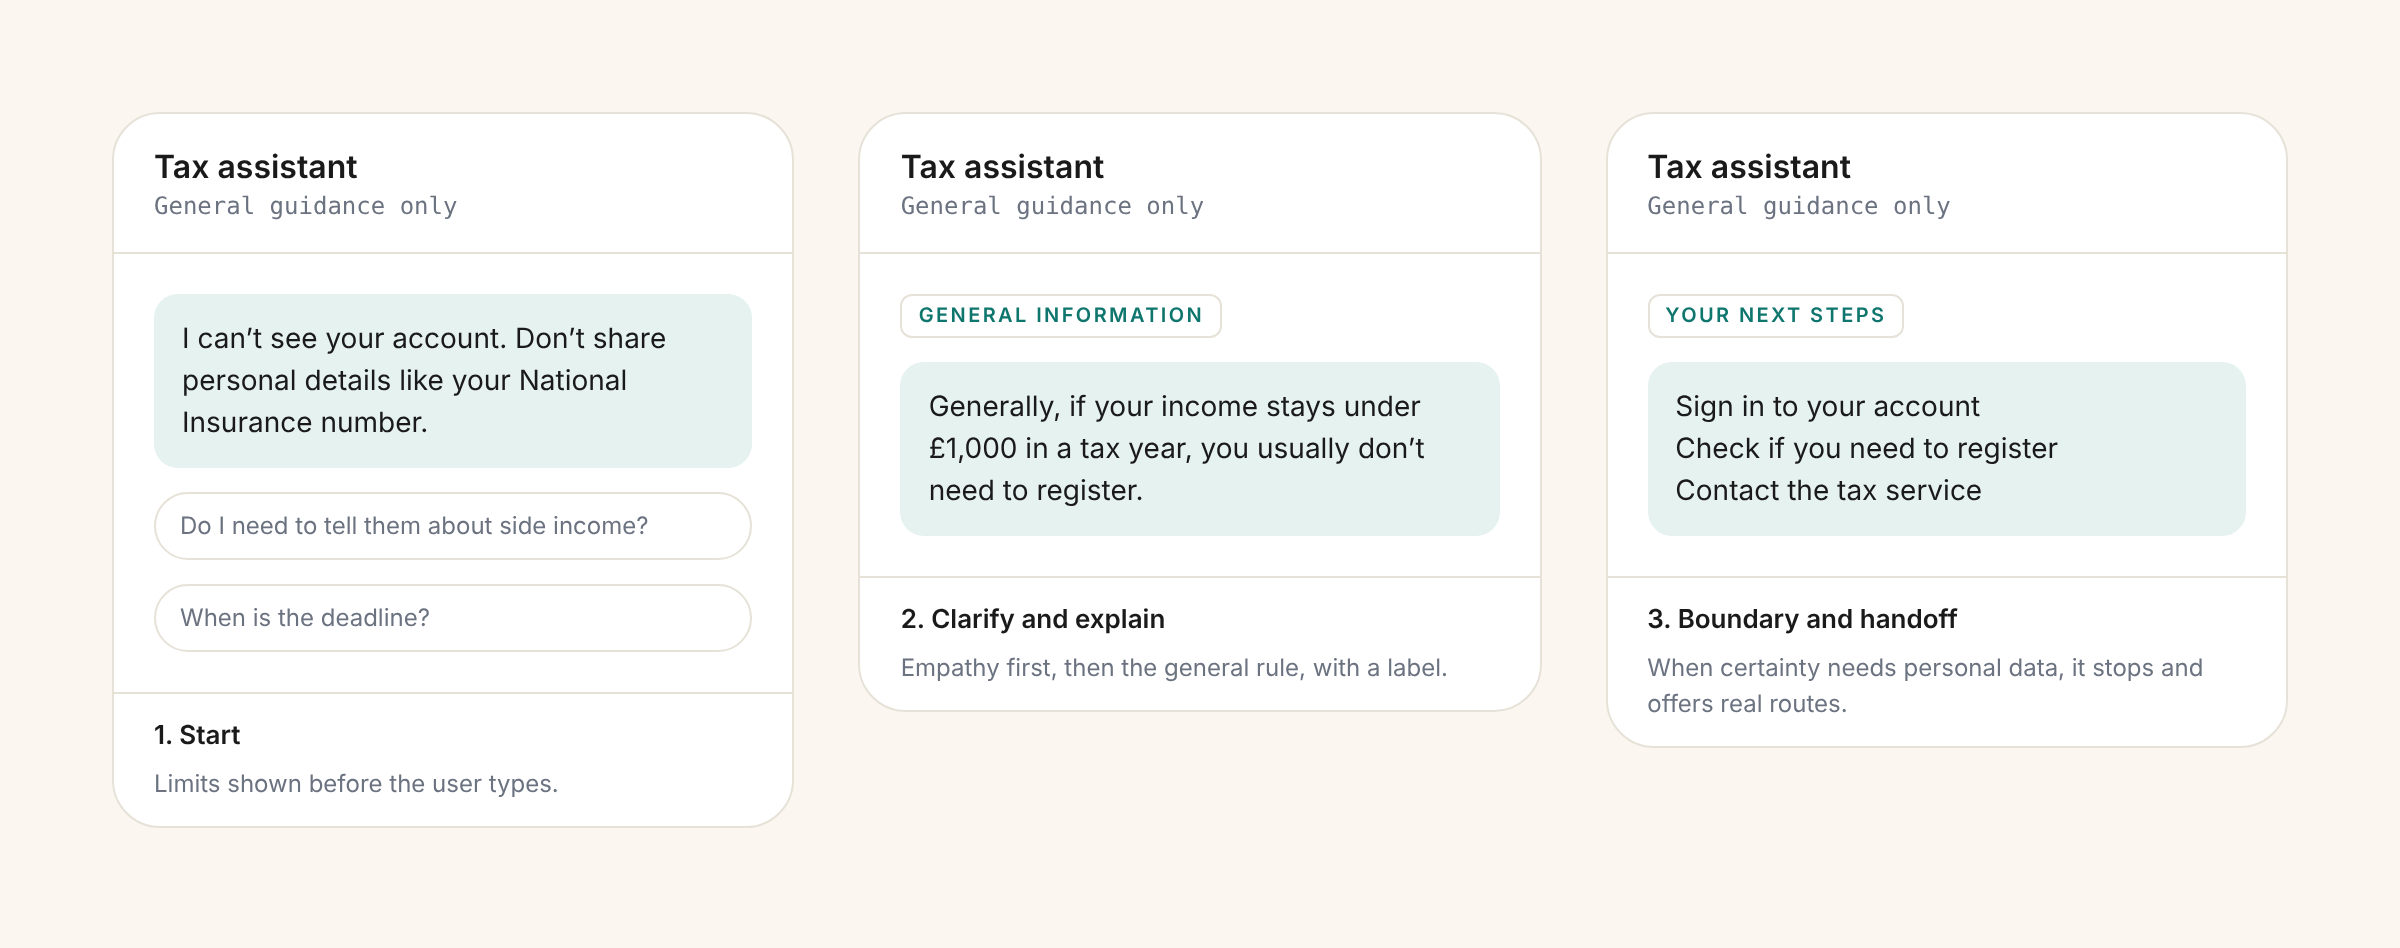
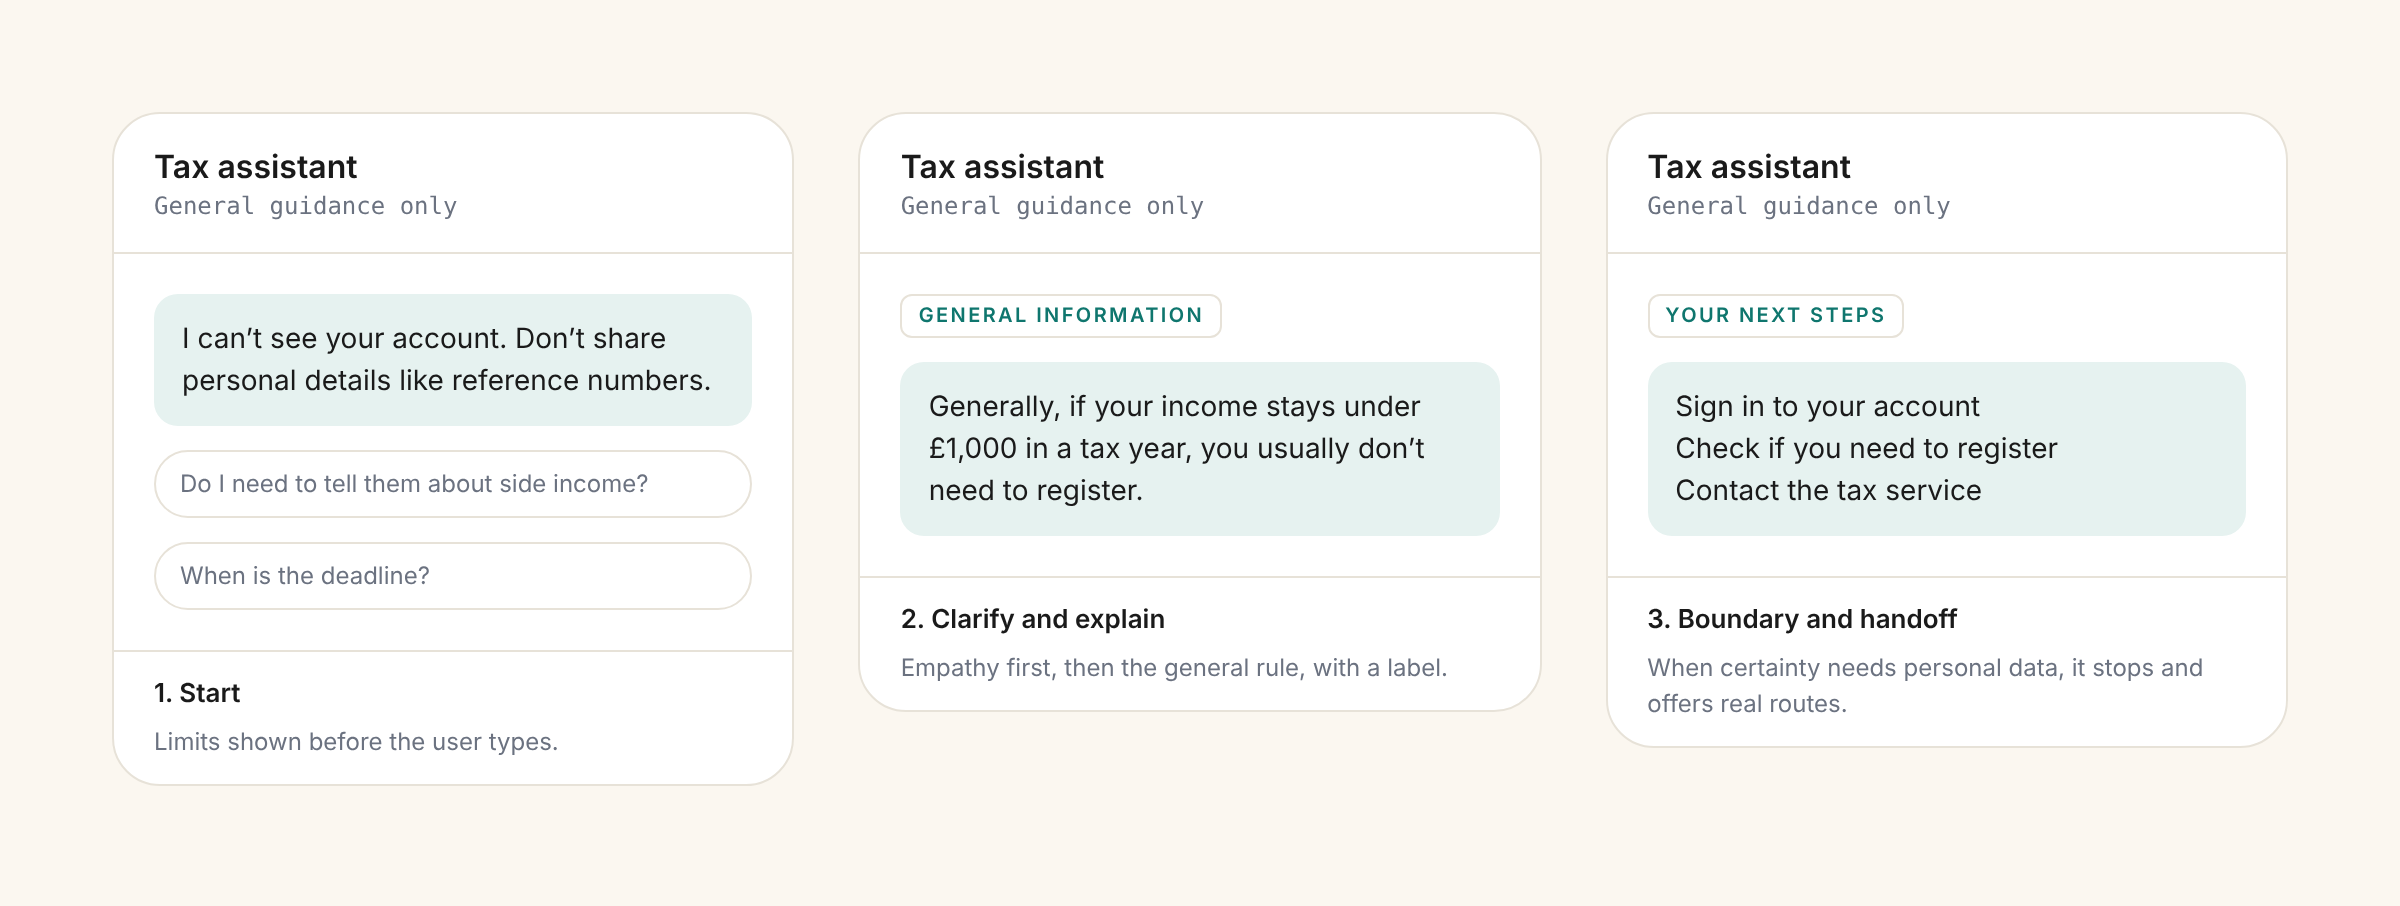
Harden anonymisation and credit work as designed, crafted and tested

diff --git a/src/app/page.tsx b/src/app/page.tsx
@@ -914,14 +914,15 @@ function ConversationalAIContent() {
       <Section number="02" title="The guiding principles I set">
         <p className="text-lg leading-relaxed mb-8 max-w-xl">
           These are the principles I set for the assistant. They shaped the
-          whole team's thinking, and I wrote them into the Stage 1 system
-          instructions so they shape every reply the model gives.
+          whole team's thinking, and they run through the Stage 1 system
+          instructions I designed and tested, so they shape every reply the
+          model gives.
         </p>
         <div className="space-y-3">
           {[
             { n: "01", t: "Inform, don't instruct", d: "Explain what usually applies and what to check next. Never make the decision for the user." },
             { n: "02", t: "Never imply it knows you", d: "Logged out means no personal data. Treat everything the user says as context, not fact." },
-            { n: "03", t: "Be honest about dates", d: "Tax rules change. Every answer is framed against today's date and points to GOV.UK." },
+            { n: "03", t: "Be honest about dates", d: "Tax rules change. Every answer is framed against today's date and points to the official guidance." },
             { n: "04", t: "Calm, plain English", d: "Neutral authority. No urgency, pressure or judgement." },
             { n: "05", t: "Stop safely", d: "When a question needs certainty, say so and hand over to the right place." },
           ].map((p) => (
@@ -952,7 +953,8 @@ function ConversationalAIContent() {
             </div>
             <p className="text-muted text-sm leading-relaxed">
               Logged out, anonymous. Explains rules, clarifies terms, routes to
-              GOV.UK. No data access, no transactions, no personal data processed.
+              the official guidance. No data access, no transactions, no personal
+              data processed.
             </p>
           </div>
           <div className="card p-6">
@@ -1057,8 +1059,8 @@ else:                                         -> route_to_human`}</code></pre>
       {/* System instructions */}
       <Section number="05" title="Guardrails written as instructions">
         <p className="text-lg leading-relaxed mb-8 max-w-xl">
-          A simplified excerpt of the Stage 1 system instructions I wrote. The
-          design lives here as much as in the screens: what the model may do,
+          A simplified excerpt of the Stage 1 system instructions I designed and
+          tested. The design lives here as much as in the screens: what the model may do,
           what it must never do, and what it does at the boundary.
         </p>
         <div className="rounded-xl border border-border overflow-hidden mb-6 font-mono text-xs sm:text-sm">
@@ -1073,7 +1075,7 @@ date: "{{CURRENT_DATE}}"  # every answer is read against today
 may:
   - explain tax rules and processes at a high level
   - explain common thresholds and eligibility criteria
-  - point people to the right GOV.UK service
+  - point people to the right official service
 
 must_not:
   - ask for or store personal information
@@ -1097,7 +1099,7 @@ tone: [neutral, calm, plain_english, no_urgency]`}</code></pre>
           <Card>
             <CardLabel>Why it matters</CardLabel>
             <p className="leading-relaxed text-muted text-sm">
-              A conversation designer who can write the system instructions, not
+              A conversation designer who can design the system instructions, not
               just the screen copy, shapes every reply the model gives. The
               guardrails are the product.
             </p>
@@ -1161,7 +1163,7 @@ tone: [neutral, calm, plain_english, no_urgency]`}</code></pre>
             src="/images/conversational/chat-screens.png"
             alt="Three chat screens: the start screen shows limits before the user types, the second labels general information, and the third turns the boundary into clear next steps"
             width={2400}
-            height={948}
+            height={906}
             className="w-full h-auto"
           />
         </div>
@@ -1180,7 +1182,7 @@ tone: [neutral, calm, plain_english, no_urgency]`}</code></pre>
             { r: "UC01", t: "Entry triage", f: "Fast triage, plain-English eligibility, routing" },
             { r: "UC02", t: "Deadline recovery", f: "Contain panic, ordered plan, don't catastrophise" },
             { r: "UC03", t: "No account", f: "Remove admin friction, break into steps" },
-            { r: "UC04", t: "Child benefit charge", f: "Explain the concept without judgement" },
+            { r: "UC04", t: "Related benefit charge", f: "Explain the concept without judgement" },
             { r: "UC05", t: "Estimate liability", f: "Bounded estimate, honest about uncertainty" },
             { r: "UC06", t: "Expenses and deductions", f: "Teach with examples, reduce cognitive load" },
             { r: "UC07", t: "Stuck, needs a human", f: "Validate effort, capture context, clean handoff" },
@@ -1240,7 +1242,7 @@ human_in_the_loop: required`}</code></pre>
             </div>
           </div>
           <Card>
-            <CardLabel>Responsible AI rules I wrote</CardLabel>
+            <CardLabel>Responsible AI rules I designed</CardLabel>
             <ul className="space-y-3 text-sm">
               <ListItem>Simulated data only. Never real personal data from anyone.</ListItem>
               <ListItem>No integration with live systems during discovery.</ListItem>
@@ -1256,8 +1258,8 @@ human_in_the_loop: required`}</code></pre>
         <p className="text-lg leading-relaxed mb-8 max-w-xl">
           I led the thinking and set the direction. I shaped the strategy,
           inspired and guided the team, aligned conversational patterns with
-          other government departments, and authored the principles, patterns
-          and system instructions the work was built on.
+          other government departments, and designed, crafted and tested the
+          principles, patterns and system instructions the work was built on.
         </p>
         <div className="grid sm:grid-cols-2 gap-4">
           <Card>
@@ -1272,8 +1274,8 @@ human_in_the_loop: required`}</code></pre>
             <CardLabel>Design and specification</CardLabel>
             <ul className="space-y-3 text-sm">
               <ListItem>Specified the eight use cases, the shared interaction model and the deterministic routing per case.</ListItem>
-              <ListItem>Wrote the Stage 1 system instructions, the behaviour spec and an eight-pattern conversation catalogue.</ListItem>
-              <ListItem>Wrote the golden test cases and the data-governance rules for using a commercial model safely.</ListItem>
+              <ListItem>Designed and crafted the Stage 1 system instructions, the behaviour spec and an eight-pattern conversation catalogue.</ListItem>
+              <ListItem>Crafted and tested the golden test cases, and set the data-governance rules for using a commercial model safely.</ListItem>
               <ListItem>Designed voice-first as a diagnostic, so it works whether it ships as voice or chat.</ListItem>
             </ul>
           </Card>
